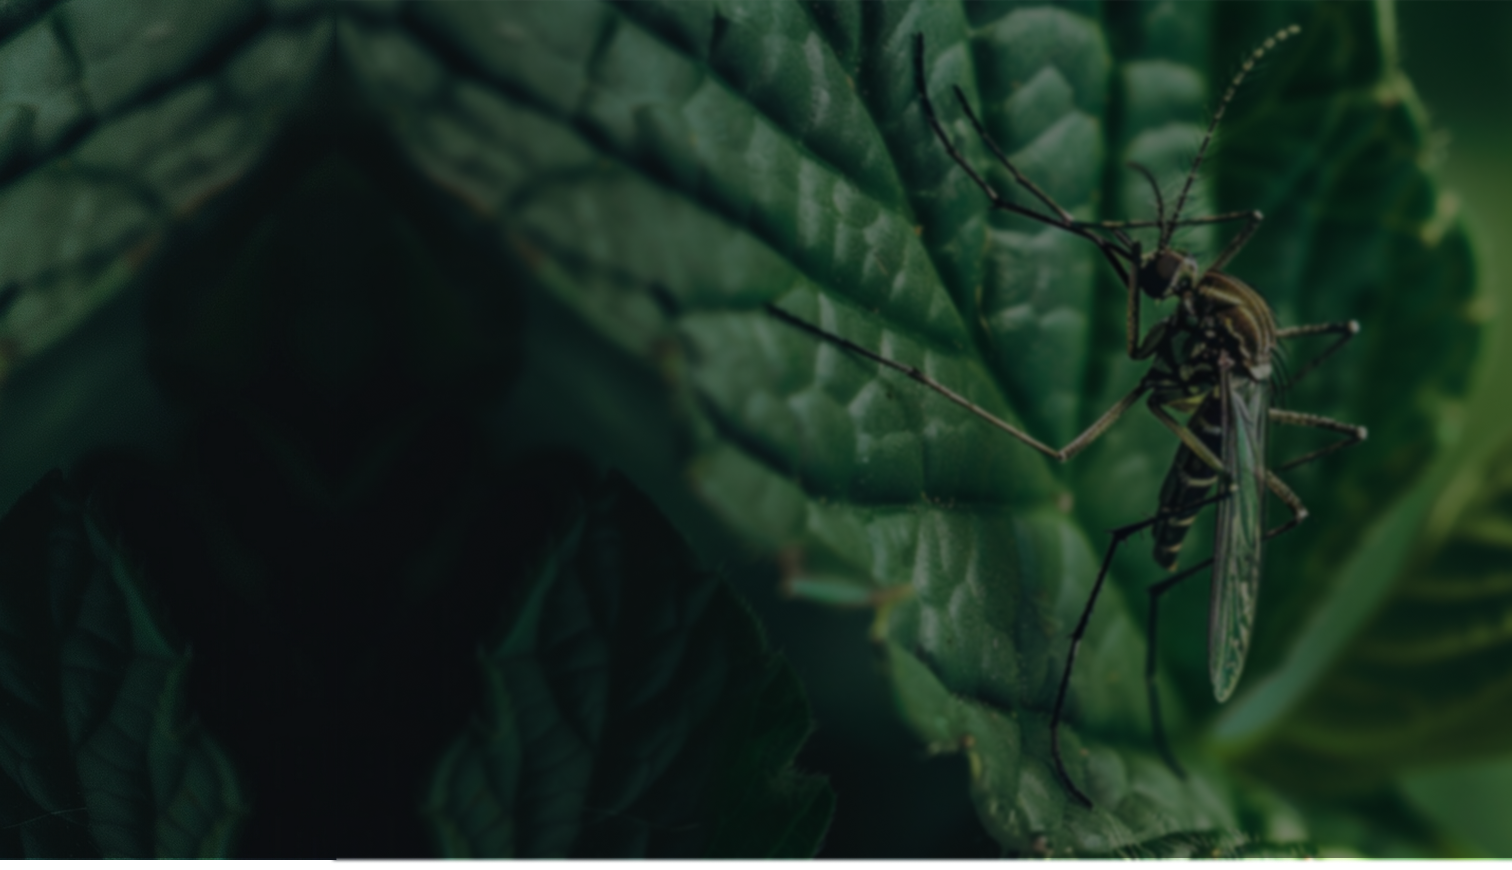
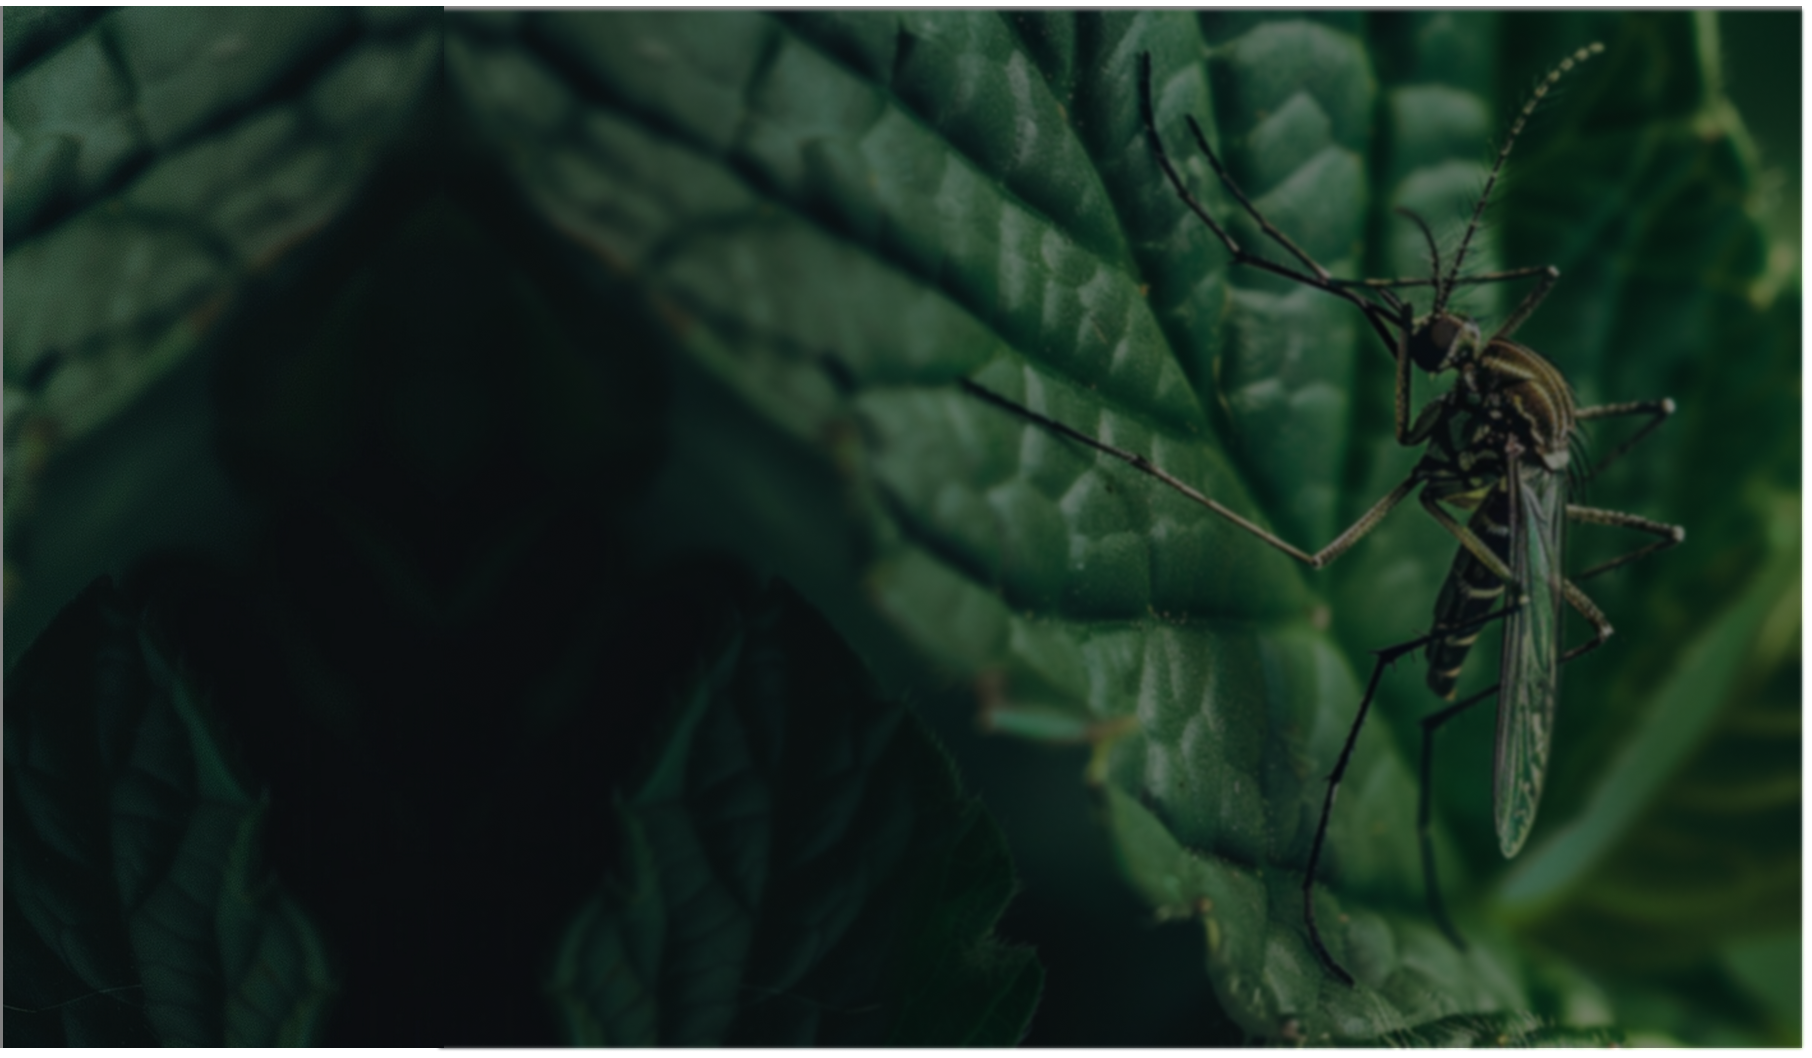
Estilização do hero e acrescentando background para ele.

diff --git a/css/style-index.css b/css/style-index.css
@@ -1,3 +1,69 @@
+header {
+    background-color: transparent;
+    box-shadow: none;
+}
+
+.hero{
+    background-image: url(../img/fundo-index-mobile.png);
+    background-repeat: no-repeat;
+    background-size: cover;
+    background-position: center ;
+    padding: 100px 0;
+    height: 500px;
+}
+
+.hero h1 {
+    color: #fff;
+    font-size: 2.6rem;
+    font-weight: 700;
+    margin: 10px 0;
+    margin-left: 34px;
+    max-width: 300px;
+}
+
+.hero p {
+    color: #fff;
+    font-size: 1.4rem;
+    margin: 34px;
+    max-width: 400px;
+}
+
+.hero .button-topo{
+    background: var(--Brand-Primary-100, #FFF);
+    display: inline-block;
+    padding: 4px 4px 4px 20px;
+    margin-left: 34px;
+    border-radius: 24px;
+}
+
+.hero .button-topo a{
+    text-decoration: none;
+    color: #003B30;
+    display: flex;
+    align-items: center;
+    justify-content: center;
+    font-size: 1.4rem;
+    font-weight: 600;
+    gap: 16px;
+}
+
+.hero .button-topo a img{
+    background-color: #003B30;
+    border-radius: 16px;
+    width: 32px;
+    padding-top: 1px;
+}
+
+.hero .button-topo a img:hover{
+    transition: 0.3s ease;
+    transform: scale(1.1);
+}
+
+
+
+
+
+
 /* * {
     margin: 0;
     padding: 0;

diff --git a/index.html b/index.html
@@ -81,12 +81,15 @@
 
 
     <main>
-        <h1>Conectando clima, dados e saúde pública.</h1>
-        <p>Veja como as mudanças climáticas influenciam a proliferação doenças nas regiões do Brasil.</p>
+        <section class="hero">
+            <h1>Conectando clima, dados e saúde pública.</h1>
+            <p>Veja como as mudanças climáticas influenciam a proliferação doenças nas regiões do Brasil.</p>
 
-        <div class="button-topo">
-            <a href="#">Análise de risco <img src="./img/arrow-drop-material.svg" alt=""></a>
-        </div>
+            <div class="button-topo">
+                <a href="#">Análise de risco <img src="./img/arrow-drop-material.svg" alt=""></a>
+            </div>
+        </section>
+
     </main>
     <!-- <section class="container">
         <main>
